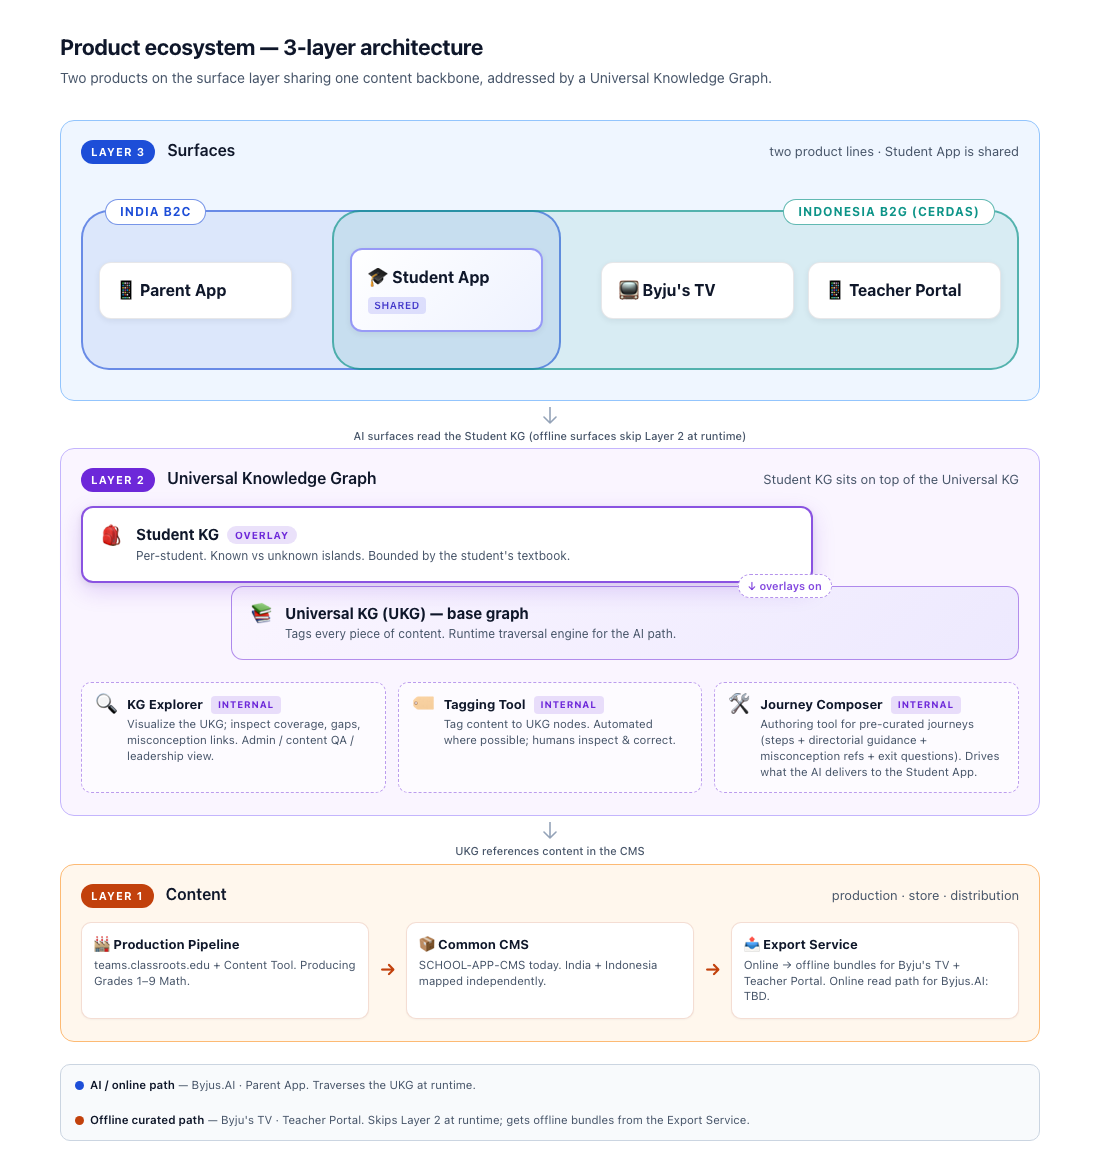
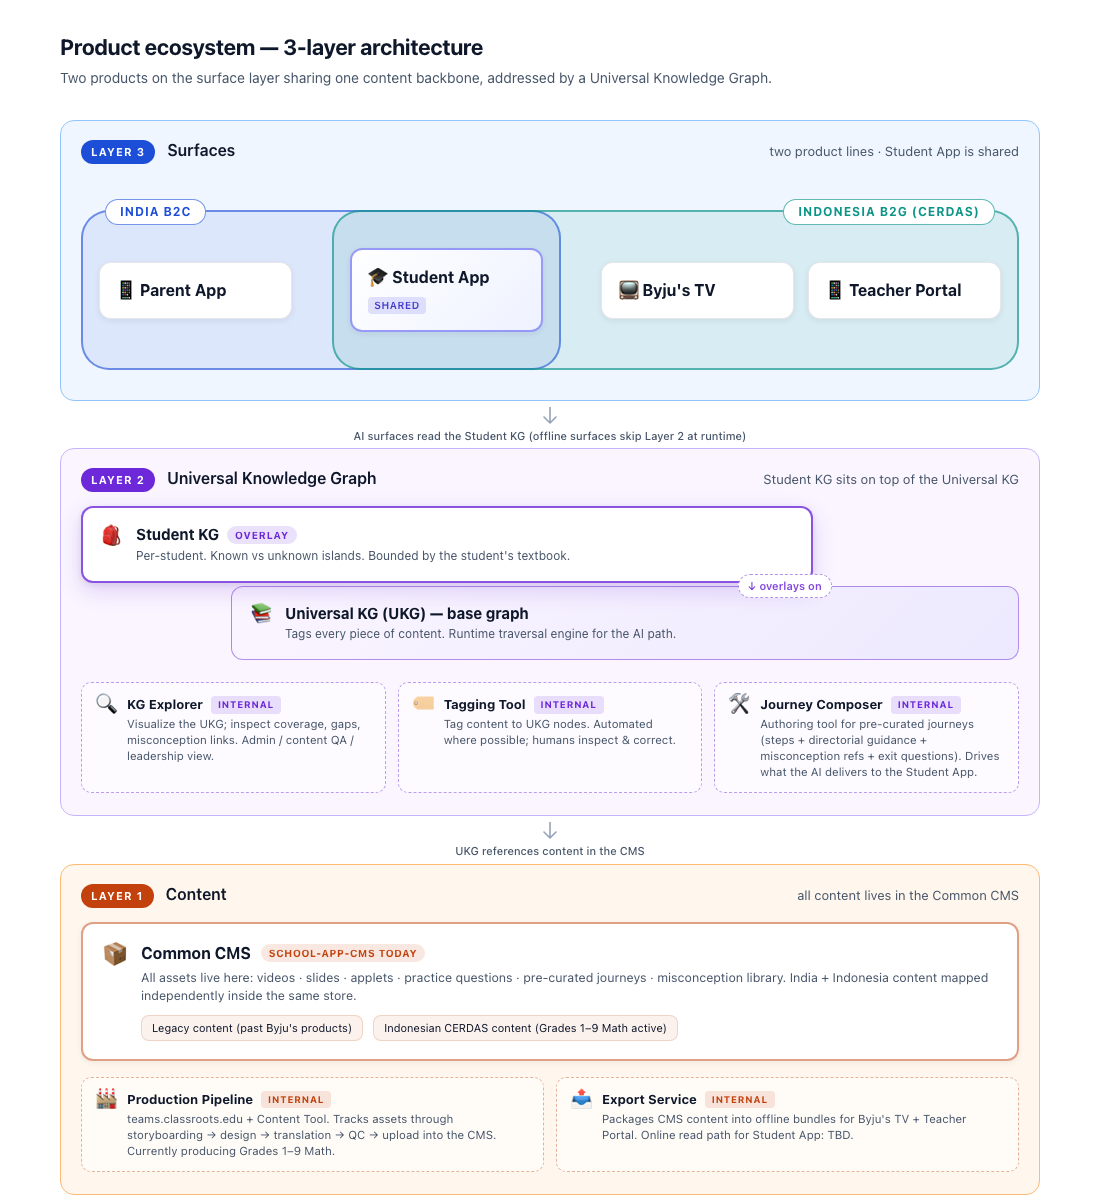
Layer 1: CMS as main element; Production Pipeline + Export Service moved to internal tools row

diff --git a/ecosystem-3-layer.html b/ecosystem-3-layer.html
@@ -305,18 +305,103 @@
     background: rgba(109, 40, 217, 0.14);
     color: #6d28d9;
   }
-  /* Layer 1: 3 stages + arrows */
-  .layer-1 .pipeline {
-    display: grid;
-    grid-template-columns: 1fr auto 1fr auto 1fr;
-    align-items: stretch;
-    gap: 10px;
+  /* Layer 1: CMS is the main element, plus internal tools row */
+  .layer-1 .cms-card {
+    background: white;
+    border: 2px solid rgba(194, 65, 12, 0.5);
+    border-radius: 12px;
+    padding: 18px 20px;
+    display: flex;
+    gap: 14px;
+    align-items: flex-start;
+    box-shadow: 0 2px 6px rgba(15, 23, 42, 0.06);
   }
-  .layer-1 .arrow {
-    align-self: center;
-    color: var(--l1-accent);
-    font-size: 18px;
+  .layer-1 .cms-icon {
+    font-size: 24px;
+    line-height: 1;
+  }
+  .layer-1 .cms-title {
+    font-size: 16px;
     font-weight: 700;
+    color: var(--ink);
+    display: flex;
+    align-items: center;
+    gap: 10px;
+    flex-wrap: wrap;
+  }
+  .layer-1 .cms-pill {
+    font-size: 10px;
+    font-weight: 700;
+    letter-spacing: 0.06em;
+    text-transform: uppercase;
+    padding: 2px 8px;
+    border-radius: 999px;
+    background: rgba(194, 65, 12, 0.12);
+    color: var(--l1-accent);
+  }
+  .layer-1 .cms-desc {
+    font-size: 12.5px;
+    color: var(--ink-soft);
+    line-height: 1.45;
+    margin-top: 4px;
+  }
+  .layer-1 .cms-streams {
+    margin-top: 10px;
+    display: flex;
+    gap: 10px;
+    flex-wrap: wrap;
+  }
+  .layer-1 .cms-stream {
+    font-size: 11px;
+    color: var(--ink);
+    background: rgba(194, 65, 12, 0.07);
+    border: 1px solid rgba(194, 65, 12, 0.18);
+    padding: 4px 10px;
+    border-radius: 8px;
+  }
+  /* Internal tools row */
+  .layer-1 .tools-row {
+    margin-top: 16px;
+    display: flex;
+    gap: 12px;
+  }
+  .layer-1 .tool-card {
+    flex: 1;
+    background: rgba(255, 255, 255, 0.6);
+    border: 1.5px dashed rgba(194, 65, 12, 0.4);
+    border-radius: 10px;
+    padding: 12px 14px;
+    display: flex;
+    gap: 10px;
+    align-items: flex-start;
+  }
+  .layer-1 .tool-icon {
+    font-size: 18px;
+    line-height: 1;
+  }
+  .layer-1 .tool-title {
+    font-size: 13px;
+    font-weight: 700;
+    color: var(--ink);
+    display: flex;
+    align-items: center;
+    gap: 8px;
+  }
+  .layer-1 .tool-desc {
+    font-size: 11.5px;
+    color: var(--ink-soft);
+    line-height: 1.4;
+    margin-top: 2px;
+  }
+  .layer-1 .tool-tag {
+    font-size: 9.5px;
+    font-weight: 700;
+    letter-spacing: 0.08em;
+    text-transform: uppercase;
+    padding: 2px 7px;
+    border-radius: 4px;
+    background: rgba(194, 65, 12, 0.13);
+    color: var(--l1-accent);
   }
 
   .box {
@@ -541,27 +626,42 @@
   <div class="label">UKG references content in the CMS</div>
 </div>
 
-<!-- LAYER 1: Content -->
+<!-- LAYER 1: Content (Common CMS) + internal tools -->
 <div class="layer layer-1">
   <div class="layer-head">
     <span class="layer-tag">Layer 1</span>
     <h2 class="layer-title">Content</h2>
-    <span class="layer-sub">production · store · distribution</span>
+    <span class="layer-sub">all content lives in the Common CMS</span>
   </div>
-  <div class="pipeline">
-    <div class="box">
-      <div class="box-title">🏭 Production Pipeline</div>
-      <div class="box-desc">teams.classroots.edu + Content Tool. Producing Grades 1–9 Math.</div>
+
+  <!-- The Common CMS: Layer 1's main architectural element -->
+  <div class="cms-card">
+    <span class="cms-icon">📦</span>
+    <div style="flex: 1;">
+      <div class="cms-title">Common CMS <span class="cms-pill">SCHOOL-APP-CMS today</span></div>
+      <div class="cms-desc">All assets live here: videos · slides · applets · practice questions · pre-curated journeys · misconception library. India + Indonesia content mapped independently inside the same store.</div>
+      <div class="cms-streams">
+        <span class="cms-stream">Legacy content (past Byju's products)</span>
+        <span class="cms-stream">Indonesian CERDAS content (Grades 1–9 Math active)</span>
+      </div>
     </div>
-    <div class="arrow">→</div>
-    <div class="box">
-      <div class="box-title">📦 Common CMS</div>
-      <div class="box-desc">SCHOOL-APP-CMS today. India + Indonesia mapped independently.</div>
+  </div>
+
+  <!-- Internal tools that operate on Layer 1 -->
+  <div class="tools-row">
+    <div class="tool-card">
+      <span class="tool-icon">🏭</span>
+      <div>
+        <div class="tool-title">Production Pipeline <span class="tool-tag">Internal</span></div>
+        <div class="tool-desc">teams.classroots.edu + Content Tool. Tracks assets through storyboarding → design → translation → QC → upload into the CMS. Currently producing Grades 1–9 Math.</div>
+      </div>
     </div>
-    <div class="arrow">→</div>
-    <div class="box">
-      <div class="box-title">📤 Export Service</div>
-      <div class="box-desc">Online → offline bundles for Byju's TV + Teacher Portal. Online read path for Byjus.AI: TBD.</div>
+    <div class="tool-card">
+      <span class="tool-icon">📤</span>
+      <div>
+        <div class="tool-title">Export Service <span class="tool-tag">Internal</span></div>
+        <div class="tool-desc">Packages CMS content into offline bundles for Byju's TV + Teacher Portal. Online read path for Student App: TBD.</div>
+      </div>
     </div>
   </div>
 </div>